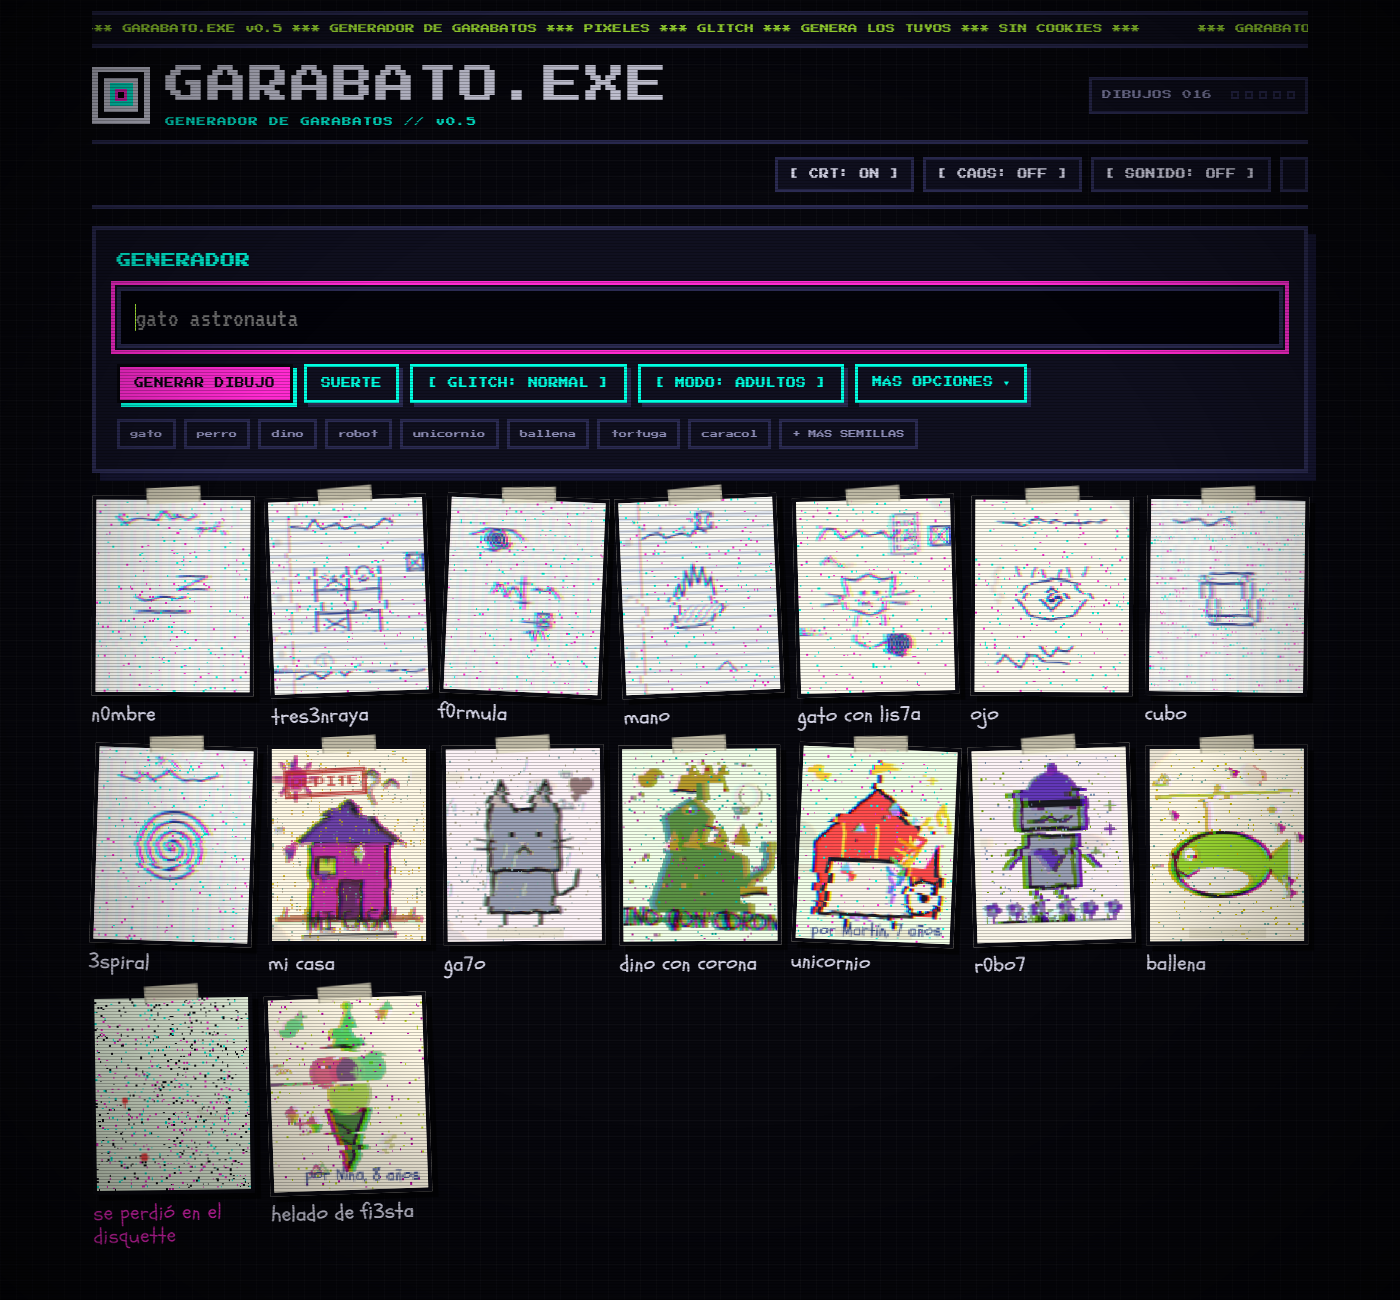
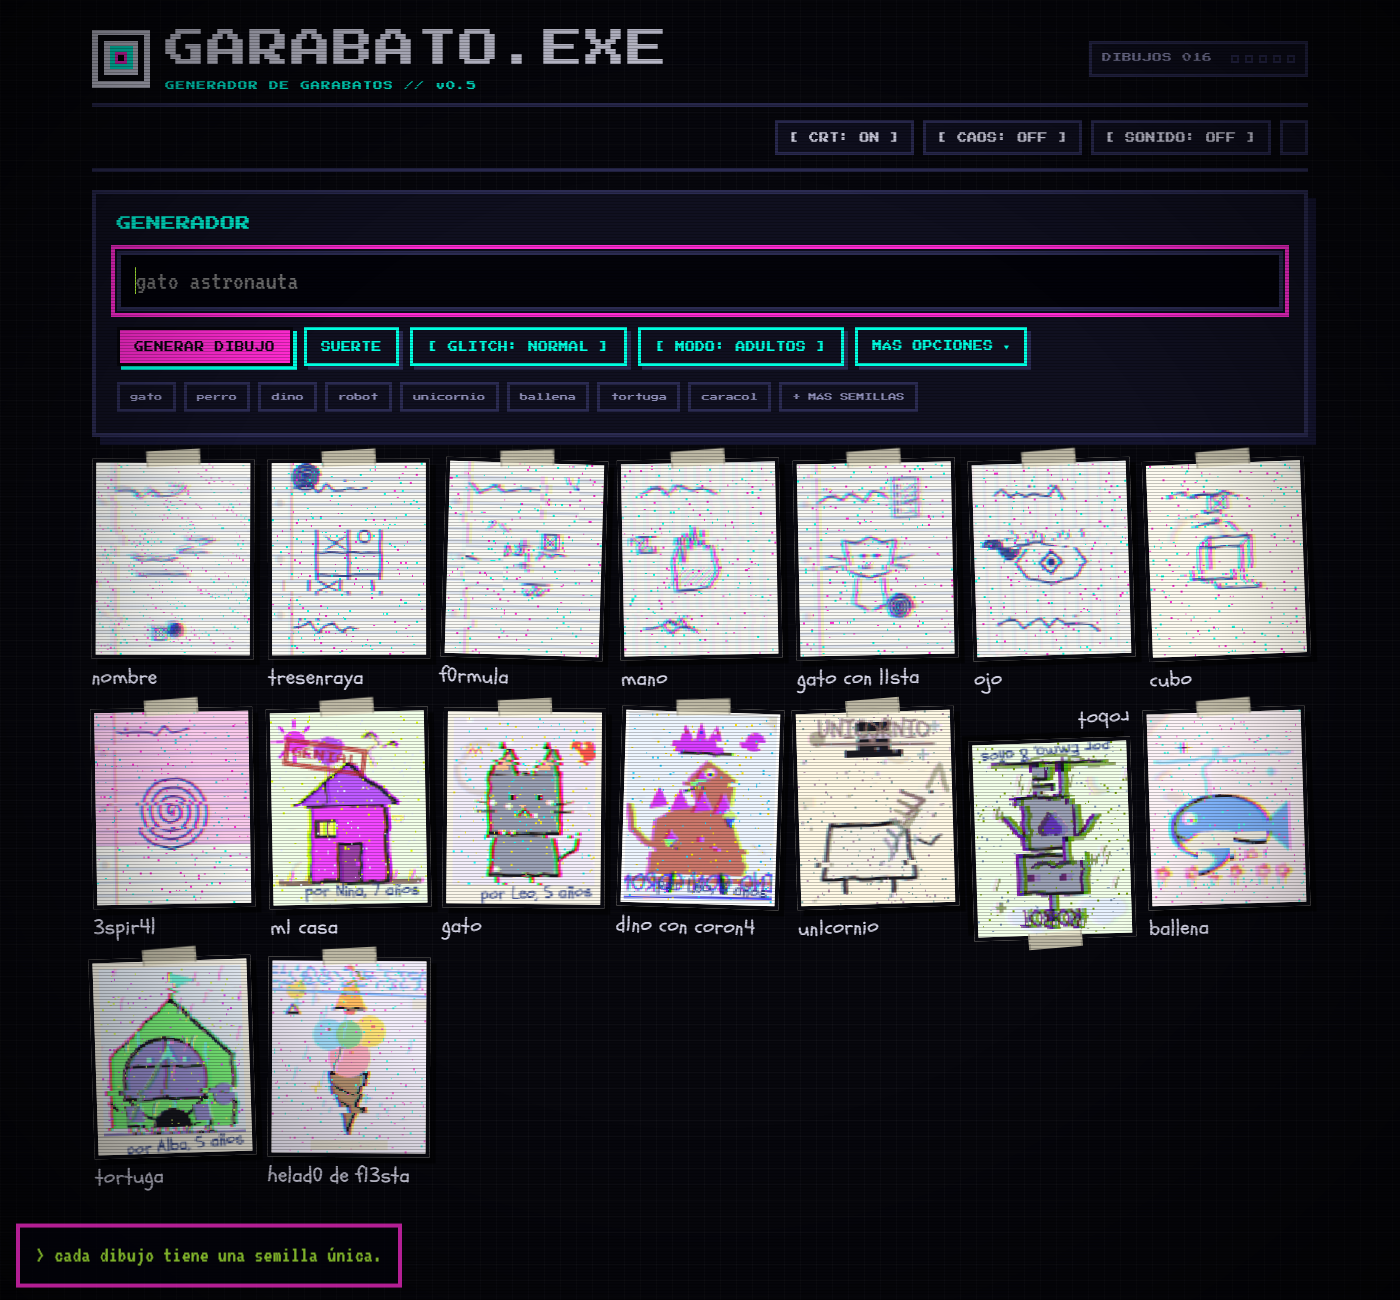
Quita la marquesina del encabezado y su CSS

diff --git a/css/estilo.css b/css/estilo.css
@@ -152,11 +152,6 @@ html.agitado main {
   50% { opacity: 0; }
 }
 
-@keyframes cinta {
-  from { transform: translateX(0); }
-  to { transform: translateX(-50%); }
-}
-
 @keyframes glitch-a {
   0%, 86% { clip-path: inset(0 0 100% 0); }
   87% { clip-path: inset(0 0 52% 0); transform: translate(-6px, 2px); }
@@ -270,32 +265,6 @@ h3,
   max-width: var(--ancho);
   margin: 0 auto;
   padding: 0.7rem 1rem 0;
-}
-
-.marquesina {
-  overflow: hidden;
-  background: var(--panel);
-  border-top: 4px solid var(--linea);
-  border-bottom: 4px solid var(--linea);
-}
-
-.cinta {
-  display: flex;
-  white-space: nowrap;
-  animation: cinta 26s linear infinite;
-  font-family: var(--pixel);
-  font-size: 0.56rem;
-  color: var(--acido);
-  padding: 0.5rem 0;
-}
-
-.cinta span {
-  flex: 0 0 auto;
-  padding-right: 3rem;
-}
-
-.marquesina:hover .cinta {
-  animation-play-state: paused;
 }
 
 .mastil {

diff --git a/index.html b/index.html
@@ -14,12 +14,6 @@
 <div class="barra-progreso" aria-hidden="true"></div>
 
 <header class="cabecera">
-  <div class="marquesina" aria-hidden="true">
-    <div class="cinta">
-      <span>*** GARABATO.EXE v0.5 *** GENERADOR DE GARABATOS *** PIXELES *** GLITCH *** GENERA LOS TUYOS *** SIN COOKIES ***&nbsp;</span>
-      <span>*** GARABATO.EXE v0.5 *** GENERADOR DE GARABATOS *** PIXELES *** GLITCH *** GENERA LOS TUYOS *** SIN COOKIES ***&nbsp;</span>
-    </div>
-  </div>
   <div class="mastil">
     <a class="sello" href="index.html" aria-label="GARABATO.EXE, galería">
       <svg viewBox="0 0 16 16" role="img" aria-hidden="true" shape-rendering="crispEdges">
